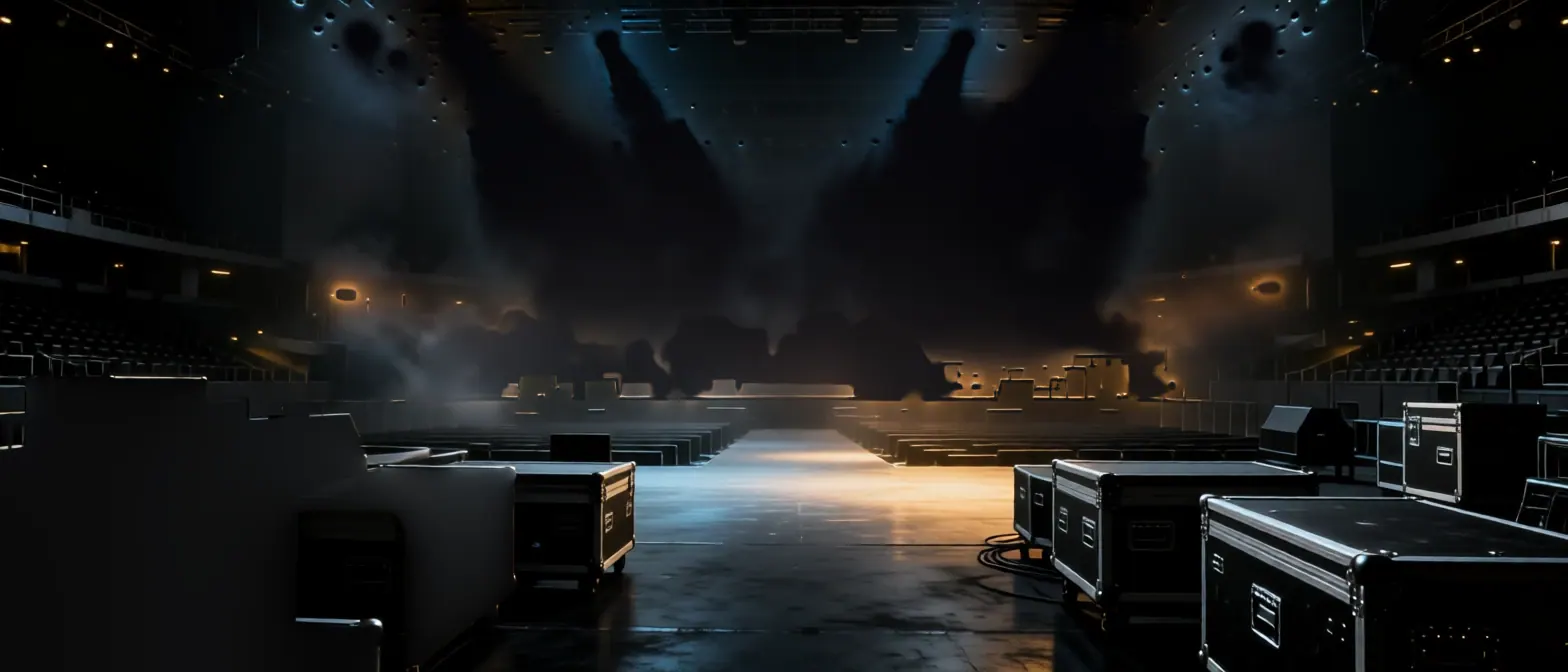
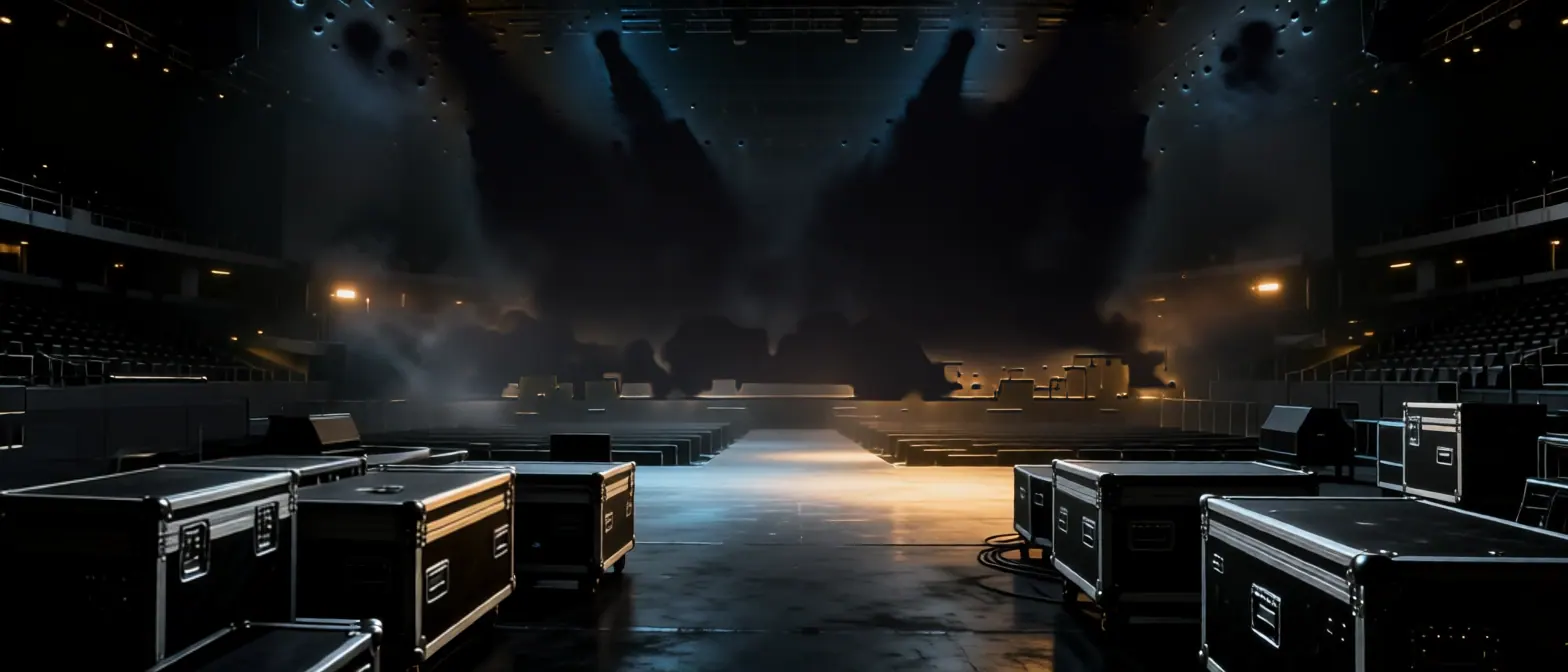
Content: Humans in the Loop plates fixed, Watercolor Nebula cut by colour into a far and a mid layer
Humans in the Loop (fun review): the wall lamps and barrier hairlines that Gen cut into the far stage and light rig layers are
erased from them (they stay in the arena plate, so a lamp no longer shows twice on a pan); the arena plate keeps Gen's own far
road cases instead of a diffusion-filled slab; the road cases move to z 5.5, in front of the crowd (8) and the nearer haze sheet (6.5).

Watercolor Nebula: Gen's two splits did not separate the painting, and a 12-unit gap sat between the backdrop (20) and the
underwash (8). tools/depth-layers.mjs gets a colour cut (`warm` mask, CPU only): the warm amber and pink clouds become `warm-clouds`
(13), the cool teal and navy washes with the heart light stay as `cool-wash` (20, the cut's holes diffusion-filled). High draws them,
Low keeps the whole backdrop; the painted underwash, cloud banks, swirl and front wisp keep their depths. World bible updated.

diff --git a/docs/world-bible.md b/docs/world-bible.md
@@ -451,14 +451,14 @@ the stage veils the far layers. The code is `render/stageArt.ts` (layers, haze, 
 | City Top | sky 20, city sprawl 16, towers and fireworks 12, rooftops 9, left building 5, escape building 3 | rooftop antenna and vent stack, left | night smog violet |
 | Dust Devil Mesa | sky 22, horizon (mesas, dust plume, salt flat) 17, near flat (arch, boulders, cracked playa) 12, hawk 6, dust wall 4 | sagebrush clump, right | dusty ochre |
 | Cursed Town | sky fog 20, far houses 17, far tentacles 15, mid tentacles 13.5, street and houses 11, tentacles 9, gables and tentacles 4 | a tentacle column rising at the left street edge; fog stays in front | grey-green |
-| Humans In The Loop | arena bowl 20, far stage 16, light rig and beams 12, crowd 8, road cases 7.5, spot beams 6, strobes 5, truss 4 | the floor wedges, right | stage-smoke magenta |
+| Humans In The Loop | arena bowl 20, far stage 16, light rig and beams 12, crowd 8, spot beams 6, road cases 5.5, strobes 5, truss 4 | the floor wedges, right | stage-smoke magenta |
 | Rainbow Full Pipe | sky 20, clouds 17, park 14, drifting clouds 10, plaza 9, trees 6 | the round bush, right | sky blue |
 | Solar Array | sky and canyon 20, plain 14, panels 12 / 10.5 / 9 / 7.5, back panels 6 | foreground rock outcrop, right | sand |
 | Space Chess | star field 20, nebula 15, galaxy 11, the board and its pieces 8, the two kings 3 | the lost pawn drifting, left | nebula blue |
-| Watercolor Nebula | backdrop 20, underwash 8, clouds 6, swirl 4 | the front cloud wisp, right | pigment cream |
+| Watercolor Nebula | cool wash and heart 20, warm clouds 13, underwash 8, cloud banks 6, swirl 4 | the front cloud wisp, right | pigment cream |
 | Yo House | the garden through the windows 22, the room 17, floor, rug and sofa 11, doorway 5, ball and dock light 3 | potted snake plant and monstera, right | morning blue-white |
 
-**The real layers** (eight stages) are Hawkes Gen's `image.layers` split of each backdrop (project
+**The real layers** (all nine stages; eight are Hawkes Gen's `image.layers` split of each backdrop, Watercolor Nebula's is a colour cut) (project
 `org_eb0d5c82e8da8c2d.doseofdestruction`, 5 layers at 1024 px, seed 11), cut by `node tools/depth-layers.mjs`: Gen's picture
 is only 1024 px wide, so each layer's alpha is used as a *cut mask over the full-resolution backdrop* (1568 px), and Gen's own
 inpainted pixels are kept only where a cut reveals what was behind it (the sky behind the towers, the garden behind the
@@ -486,15 +486,19 @@ layers come inpainted and the bottom layer of every stack is opaque).
 - **Humans in the Loop:** Gen's first split (5 layers) left the arena in one layer; a retry with a prompt naming the road cases,
   speaker stacks, trusses, seating and beams (6 layers, seed 23) came back as an empty arena, the lit far stage, the lighting
   rig with its beams, and the near road cases with the hung speakers. Those four are cut as `arena` 20, `far-stage` 16,
-  `light-rig` 12 and `road-cases` 7.5 (the road cases only exist at the left: the right cases stay in the arena, so the left
-  stack is nearer); the crowd (8), spot beams (6), strobes (5) and truss (4) keep their depths. The retry's other two layers
+  `light-rig` 12 and `road-cases` 5.5, in front of the crowd (8) and the nearer haze sheet (6.5), so they stay black and sharp
+  (only the left stack and the hung speakers are cut; the right cases stay in the arena, so the left stack reads nearer); the
+  crowd (8), spot beams (6) and strobes (5) and truss (4) keep their depths. The retry's other two layers
   (a ghost covering 1.5% of the picture, a haze with no solid pixel) are not used. The arena plate is Gen's own empty arena where
-  the beams, the far stage glow and the cases are cut away, and the cases' hole is diffusion-filled (the plate also had them).
-- **Watercolor Nebula:** two splits (j_ee4414382a78, j_568d743c1e78) did not separate the painting: the retry's main layer is
-  the whole painting again (94% of the picture), its clouds are invented shapes that are not in the backdrop, its far wash is
-  a smooth lavender gradient that does not match the pixel-wash painting, and one layer is empty. A cut with those masks would
-  slide a patch of the painting over a second copy of itself, so the stage keeps the real, separate layers it already had
-  (underwash 8, cloud banks 6, swirl 4, the front wisp). Layers painted for the stage are the better route for this one.
+  the beams and the far stage glow are cut away; the wall lamps and the barrier hairlines Gen cut into two layers are erased from
+  them (`erase` in the plan), so a lamp never shows twice when the camera pans.
+- **Watercolor Nebula:** two Gen splits (j_ee4414382a78, j_568d743c1e78) did not separate the painting: the retry's main layer is
+  the whole painting again (94% of the picture), its clouds are invented shapes that are not in the backdrop, its far wash is a
+  smooth lavender gradient that does not match the pixel-wash painting, and one layer is empty. So it is cut by colour on the CPU
+  (`warm` mask in `tools/depth-layers.mjs`: red over blue, blurred into coherent masses, the heart light kept out): the warm
+  amber and pink clouds are `warm-clouds` 13, the cool teal and navy washes with the heart are `cool-wash` 20 (the holes the
+  cut leaves are diffusion-filled, so a pan shows soft pale mist between them), which closes the gap between the backdrop and the
+  painted underwash 8, cloud banks 6, swirl 4 and the front wisp (all kept).
 
 **Short:** the foregrounds only shake on KOs (and sway where the art already did), and the cut layers add parallax, not new
 things to see: crowd heads, a bird, traffic lights crawling are the next layer of life. No stage has crowd heads, cables or kelp
